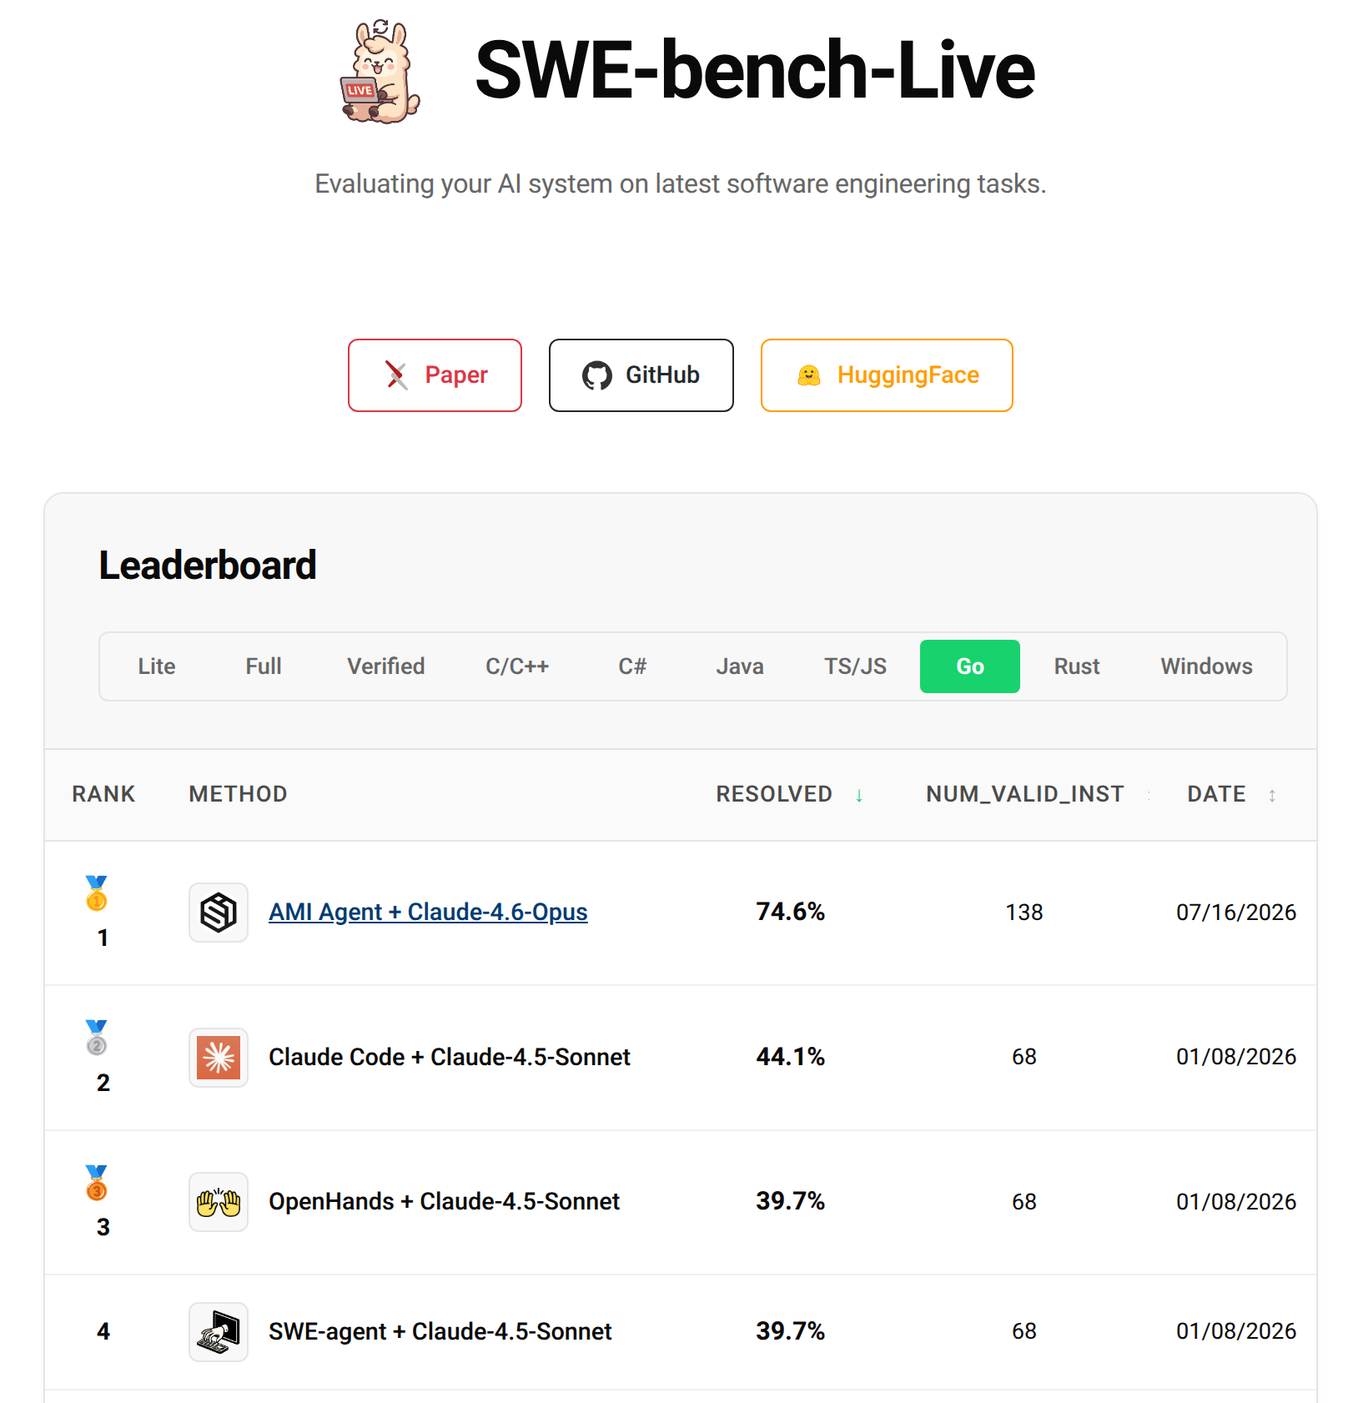
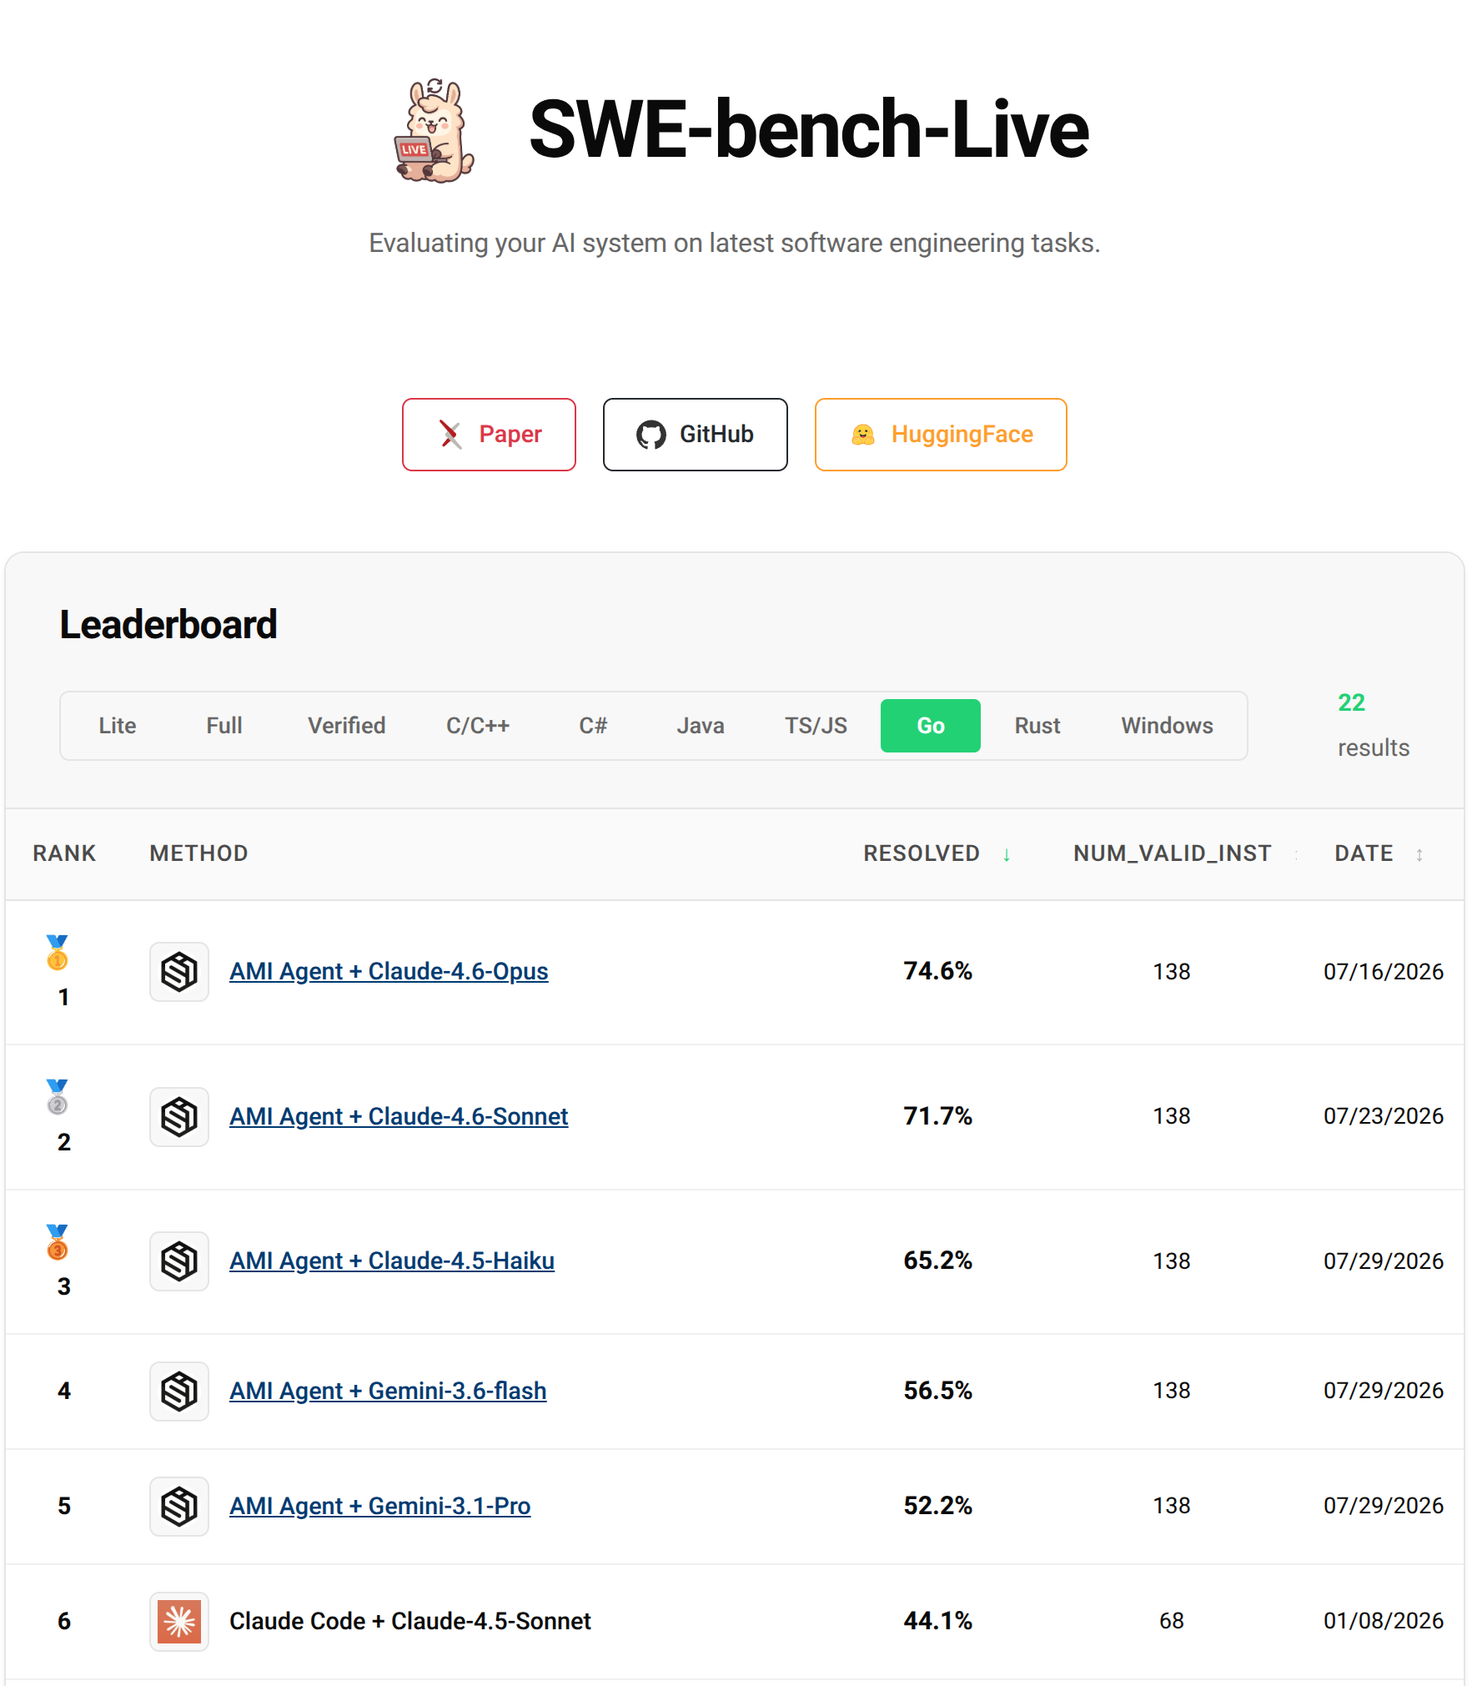
feat: update Go leaderboard for AMI top-5 sweep and add 3 blog posts
Update the SWE-bench Live Go section to reflect AMI holding all top 5
positions with 5 different models (Opus, Sonnet, Haiku, Gemini Flash,
Gemini Pro). Add three blog posts covering the sweep results, the
model-agnostic architecture insight, and the practical cost-quality
tradeoff across model tiers.

diff --git a/src/app/leaderboards/page.tsx b/src/app/leaderboards/page.tsx
@@ -278,7 +278,7 @@ export default function LeaderboardsPage() {
           {/* SWE Bench Live Go */}
           <div id="swebench-live-go" className="scroll-mt-20">
             <h3 className="text-xl font-semibold tracking-tight text-neutral-900 dark:text-white mb-4 pb-2 border-b border-neutral-200 dark:border-neutral-800">SWE Bench Live Go</h3>
-            <p className="mt-1 text-xs text-neutral-400 dark:text-neutral-500">July 2026</p>
+            <p className="mt-1 text-xs text-neutral-400 dark:text-neutral-500">August 2026</p>
 
             <div className="mt-4 space-y-4 text-neutral-700 dark:text-neutral-300">
               <p>
@@ -292,30 +292,31 @@ export default function LeaderboardsPage() {
               <div className="rounded-xl border border-neutral-200 dark:border-white/10 bg-neutral-50 dark:bg-neutral-900/60 p-6">
                 <div className="grid grid-cols-1 md:grid-cols-4 gap-6 mb-6">
                   <div className="text-center">
-                    <div className="text-2xl sm:text-4xl font-bold text-blue-600 dark:text-blue-400">#1</div>
+                    <div className="text-2xl sm:text-4xl font-bold text-blue-600 dark:text-blue-400">#1–#5</div>
                     <div className="text-sm text-neutral-600 dark:text-neutral-400 mt-1">Ranking</div>
                   </div>
                   <div className="text-center">
                     <div className="text-2xl sm:text-4xl font-bold text-blue-600 dark:text-blue-400">74.6%</div>
-                    <div className="text-sm text-neutral-600 dark:text-neutral-400 mt-1">Resolved</div>
+                    <div className="text-sm text-neutral-600 dark:text-neutral-400 mt-1">Resolved (Best)</div>
                   </div>
                   <div className="text-center">
                     <div className="text-2xl sm:text-4xl font-bold text-blue-600 dark:text-blue-400">103</div>
                     <div className="text-sm text-neutral-600 dark:text-neutral-400 mt-1">Problems Solved</div>
                   </div>
                   <div className="text-center">
-                    <div className="text-2xl sm:text-4xl font-bold text-blue-600 dark:text-blue-400">3.4&times;</div>
-                    <div className="text-sm text-neutral-600 dark:text-neutral-400 mt-1">More Solved vs 2nd</div>
+                    <div className="text-2xl sm:text-4xl font-bold text-blue-600 dark:text-blue-400">+30.5pp</div>
+                    <div className="text-sm text-neutral-600 dark:text-neutral-400 mt-1">vs Best Non-AMI</div>
                   </div>
                 </div>
 
                 <div className="border-t border-neutral-200 dark:border-neutral-700 pt-4 space-y-3">
                   <p className="text-sm text-neutral-700 dark:text-neutral-300">
-                    <span className="font-semibold">AMI Agent + Claude-4.6-Opus</span> solved <span className="font-semibold text-blue-600 dark:text-blue-400">103 out of 138</span> Go
-                    issues (74.6%), securing first place. The runner-up (Claude Code + Claude 4.5 Sonnet) solved 30 out of 68 (44.1%) — AMI
-                    solved <span className="font-semibold text-blue-600 dark:text-blue-400">3.4&times; more problems</span> in
-                    absolute terms, while also maintaining a +30.5 point lead in resolution rate across a test set that
-                    was more than twice as large.
+                    <span className="font-semibold">AMI Agent swept the entire Go top 5</span> across five different model backends
+                    — Claude-4.6-Opus (<span className="font-semibold text-blue-600 dark:text-blue-400">74.6%</span>),
+                    Claude-4.6-Sonnet (71.7%), Claude-4.5-Haiku (65.2%), Gemini-3.6-Flash (56.5%),
+                    and Gemini-3.1-Pro (52.2%). The best non-AMI entry (Claude Code + Claude-4.5-Sonnet, ranked 6th) solved
+                    30 out of 68 issues (44.1%) — even the <span className="font-semibold text-blue-600 dark:text-blue-400">lowest-ranked
+                    AMI variant beat every non-AMI agent by +8.1pp</span>, proving the framework — not the model — is the differentiator.
                   </p>
                 </div>
               </div>
@@ -323,7 +324,7 @@ export default function LeaderboardsPage() {
               <div className="rounded-xl border border-neutral-200 dark:border-white/10 overflow-hidden">
                 <Image
                   src="/leaderboards/swebench_live_go.png"
-                  alt="SWE Bench Live Go Leaderboard showing AMI Agent + Claude-4.6-Opus at #1 with 74.6%"
+                  alt="SWE Bench Live Go Leaderboard showing AMI Agent sweeping positions #1 through #5 with 74.6% at the top"
                   width={1200}
                   height={800}
                   className="w-full h-auto"
@@ -332,7 +333,7 @@ export default function LeaderboardsPage() {
               </div>
 
               <div className="text-xs text-neutral-500 dark:text-neutral-400 text-center">
-                Source: <a href="https://swe-bench-live.github.io/#leaderboard-go" target="_blank" rel="noopener noreferrer" className="text-blue-600 dark:text-blue-400 hover:underline">swe-bench-live.github.io</a>. July 2026.
+                Source: <a href="https://swe-bench-live.github.io/#leaderboard-go" target="_blank" rel="noopener noreferrer" className="text-blue-600 dark:text-blue-400 hover:underline">swe-bench-live.github.io</a>. August 2026.
               </div>
             </div>
           </div>

diff --git a/content/blog/posts/2026-08-05-go-multi-model-cost-quality.md b/content/blog/posts/2026-08-05-go-multi-model-cost-quality.md
@@ -1,0 +1,77 @@
+---
+title: "From Opus to Gemini Flash: Scaling AMI Across Model Tiers on SWE-bench Go"
+subtitle: "Same binary, same prompts, five models — what the cost-quality curve actually looks like"
+abstract: "We ran AMI v0.6.2 against SWE-bench Live Go with five different models spanning two providers. The only variable was the model endpoint. The results reveal a practical cost-quality tradeoff curve that every team running AI-assisted development should understand."
+date: "2026-08-05"
+author: "Carlos Camacho-Gonzalez"
+categories: ["Engineering"]
+heroImage: "/blog/images/go-multi-model-cost-quality.jpg"
+---
+
+## One binary, five models
+
+Every benchmark result on our leaderboard was produced by the same artifact: AMI v0.6.2, running inside the same OpenShell container, with the same system prompts and the same `MAX_TURNS=140` limit. The only variable across runs was the `AI_MODEL` environment variable. This matters because it isolates model capability from agent engineering — the scaffolding is identical, so the numbers reflect pure model performance under AMI's orchestration.
+
+Here are the SWE-bench Live Go resolution rates:
+
+| Model | Resolution Rate | Delta vs. Opus | Provider |
+|---|---|---|---|
+| Claude-4.6-Opus | 74.6% | baseline | Anthropic |
+| Claude-4.6-Sonnet | 71.7% | -2.9pp | Anthropic |
+| Claude-4.5-Haiku | 65.2% | -9.4pp | Anthropic |
+| Gemini-3.6-Flash | 56.5% | -18.1pp | Google |
+| Gemini-3.1-Pro | 52.2% | -22.4pp | Google |
+
+## The diminishing returns curve
+
+The step-down cost between adjacent tiers is not linear. Moving from Opus to Sonnet costs 2.9 percentage points. Sonnet to Haiku costs 6.5pp. Haiku to Flash costs 8.7pp. The first step down is nearly free in terms of capability — you retain 96% of Opus's resolution rate with Sonnet at a fraction of the per-token cost.
+
+This has a direct practical consequence: **most production workloads should default to Sonnet**, not Opus. The 2.9pp gap is within noise for many real-world distributions, and the cost savings compound fast when you are processing hundreds or thousands of issues.
+
+## Haiku outperforms every non-AMI agent
+
+The 65.2% result from Claude-4.5-Haiku deserves its own callout. This is the cheapest model in the Anthropic lineup, and it still outperforms every non-AMI agent on the SWE-bench Live Go leaderboard — including agents running far more expensive models. The implication is that agent architecture matters more than raw model size once you cross a capability threshold. AMI's structured planning, OpenShell execution environment, and critic-gated memory give smaller models the scaffolding they need to punch above their weight.
+
+For high-volume, cost-sensitive workloads — think CI pipelines that auto-triage and fix flaky tests, or batch processing of low-severity bug reports — Haiku on AMI gives you top-of-leaderboard performance at the lowest Anthropic price tier.
+
+## Cross-provider compatibility
+
+The Gemini results prove something we consider essential for production readiness: **AMI's model abstraction layer works across providers**. Switching from Anthropic to Google requires changing two environment variables, not rewriting your pipeline.
+
+This matters for teams that need provider diversity for compliance, want to consolidate billing under Google Cloud, or simply want a fallback when one provider has capacity constraints. Gemini-3.6-Flash at 56.5% is competitive with many dedicated agents, and it runs on entirely separate infrastructure from the Anthropic models.
+
+## How to switch models
+
+Changing the model is a single configuration change. In your run configuration:
+
+```bash
+# Opus — maximum accuracy
+AI_MODEL="claude-4.6-opus" AI_PROVIDER="anthropic" ./run-instance.sh
+
+# Sonnet — best cost/quality tradeoff
+AI_MODEL="claude-4.6-sonnet" AI_PROVIDER="anthropic" ./run-instance.sh
+
+# Haiku — high volume, low cost
+AI_MODEL="claude-4.5-haiku" AI_PROVIDER="anthropic" ./run-instance.sh
+
+# Gemini Flash — Google Cloud billing, provider diversity
+AI_MODEL="gemini-3.6-flash" AI_PROVIDER="google" ./run-instance.sh
+```
+
+Everything else — the container image, the prompt templates, the turn limits, the patch extraction — stays the same. No code changes, no redeployment.
+
+## Choosing the right tier
+
+The decision framework is straightforward:
+
+| Priority | Recommended Model | Rationale |
+|---|---|---|
+| Maximum accuracy | Claude-4.6-Opus | 74.6% — highest resolution rate, justified for critical codebases |
+| Cost efficiency | Claude-4.6-Sonnet | 71.7% — retains 96% of Opus at significantly lower cost |
+| High volume / budget | Claude-4.5-Haiku | 65.2% — still beats every non-AMI agent, lowest Anthropic tier |
+| Provider diversity | Gemini-3.6-Flash | 56.5% — separate provider, Google Cloud billing |
+| Google-native stack | Gemini-3.1-Pro | 52.2% — native Google integration, Vertex AI compatible |
+
+For most teams, we recommend starting with Sonnet and only upgrading to Opus for repositories where the marginal 2.9pp matters — typically large, complex codebases with deep dependency chains. Run Haiku for anything high-volume where you need good-enough results at scale. Use the Gemini variants when your infrastructure or compliance requirements dictate provider choice.
+
+The underlying point is that AMI's value is not tied to any single model. The agent architecture is the multiplier. Pick the model that fits your budget and constraints, and let AMI handle the rest.

diff --git a/content/blog/posts/2026-08-04-go-model-agnostic-framework.md b/content/blog/posts/2026-08-04-go-model-agnostic-framework.md
@@ -1,0 +1,66 @@
+---
+title: "Five Models, One Framework: What the Go Sweep Proves About Architecture"
+subtitle: "AMI holds the top 5 positions on SWE-bench Live Go with 5 different models from 2 providers"
+abstract: "AMI swept the top 5 on SWE-bench Live Go using five different models spanning two providers and the full capability spectrum. The result demonstrates that the PRE loop is model-agnostic by design: the framework is the differentiator, not the underlying LLM."
+date: "2026-08-04"
+author: "Carlos Camacho-Gonzalez"
+categories: ["Research"]
+heroImage: "/blog/images/go-model-agnostic-framework.jpg"
+---
+
+## The experiment no one else can run
+
+AMI holds positions 1 through 5 on the SWE-bench Live Go leaderboard. Each position uses a different model. Two are from Anthropic (Claude), two are from Google (Gemini), and one is the cost-optimized Claude-4.5-Haiku. The models span the full capability spectrum from frontier to mid-tier.
+
+| AMI Configuration | Rate | vs Best Non-AMI |
+|---|---|---|
+| Claude-4.6-Opus | 74.6% | +30.5pp |
+| Claude-4.6-Sonnet | 71.7% | +27.6pp |
+| Claude-4.5-Haiku | 65.2% | +21.1pp |
+| Gemini-3.6-Flash | 56.5% | +12.4pp |
+| Gemini-3.1-Pro | 52.2% | +8.1pp |
+
+Every single AMI configuration outperforms every non-AMI agent on the leaderboard. The weakest AMI variant beats the strongest non-AMI competitor by 8.1 percentage points.
+
+## If the model mattered most, this would not work
+
+The standard assumption in AI engineering is that benchmark performance is primarily a function of the underlying model. A better model produces better results; swap to a weaker model and performance collapses.
+
+AMI's Go sweep contradicts this assumption directly. If AMI's success were model-dependent, switching from Claude-4.6-Opus to Gemini-3.1-Pro — a model from a different provider, a different architecture family, trained on different data — would crash performance. Instead, Gemini-3.1-Pro still places top 5 and beats every non-AMI agent.
+
+The spread within AMI variants is 22.4 percentage points (74.6% down to 52.2%). The gap between AMI's worst configuration and the best non-AMI agent is 8.1 percentage points. **Framework choice has a larger effect on performance than model choice.**
+
+## Why the PRE loop is model-agnostic
+
+The PRE loop's three core mechanisms operate on observations, not on model internals.
+
+### Critic-gated memory
+
+The Critic evaluates candidate results by checking them against concrete observations: test outputs, compiler errors, type-check results. It does not inspect the model's hidden states or attention patterns. A passing test is a passing test regardless of which model generated the code that passes it.
+
+### Information-theoretic stopping
+
+The stopping criterion measures whether additional iterations are likely to yield new information, based on the trajectory of observations so far. This calculation depends on what the agent has observed, not on which model is doing the observing. The entropy of the observation sequence is model-independent.
+
+### Structured planning
+
+The planning phase decomposes tasks into subgoals based on the current belief state and available observations. Different models may decompose differently, but the planning structure itself constrains the search space in ways that benefit all models equally.
+
+## The cost-efficiency argument
+
+Claude-4.5-Haiku is a cost-optimized model designed for high throughput at low cost. At 65.2% on SWE-bench Live Go, it outperforms every non-AMI agent on the leaderboard. This includes agents running frontier models.
+
+The implication is direct: **AMI extracts more from a cheap model than other frameworks extract from an expensive one.** For production deployments where cost matters, this means the framework amortizes the performance gap between model tiers.
+
+## Contrast with other agents
+
+Claude Code, SWE-agent, and OpenHands all appear on the SWE-bench Live Go leaderboard with various model configurations. None of them holds more than one top-10 position by resolution rate. Switching their underlying model does not reliably improve their ranking because the framework itself is the bottleneck.
+
+This is the key distinction. When the framework is the limiting factor, upgrading the model yields diminishing returns. When the framework is not the limiting factor — as with AMI — upgrading the model yields consistent, predictable gains across the full capability spectrum.
+
+## Two numbers that summarize the finding
+
+- **22.4pp**: the spread across AMI's five model configurations (within-framework variance)
+- **8.1pp**: the gap between AMI's weakest and the best non-AMI (between-framework gap)
+
+The between-framework gap exceeds what model selection alone can explain. The architecture is doing the work.

diff --git a/content/blog/posts/2026-08-03-go-sweep-top-five.md b/content/blog/posts/2026-08-03-go-sweep-top-five.md
@@ -1,0 +1,62 @@
+---
+title: "AMI Sweeps All Five SWE-bench Live Go Positions"
+subtitle: "One framework, three providers, five models -- every top-five slot on the Go leaderboard belongs to AMI"
+abstract: "AMI holds positions 1 through 5 on the SWE-bench Live Go leaderboard as of August 2026, spanning models from Anthropic and Google. Even the lowest-ranked AMI variant outperforms the best non-AMI submission by 8.1 percentage points. This is the first time any agent framework has swept the top five on a SWE-bench leaderboard."
+date: "2026-08-03"
+author: "Carlos Camacho-Gonzalez"
+categories: ["Benchmarks"]
+heroImage: "/blog/images/go-sweep-top-five.jpg"
+---
+
+## The leaderboard as of August 2026
+
+Out of 22 total Go submissions on the SWE-bench Live leaderboard, the top five are all AMI:
+
+| Rank | Configuration | Resolved | Total | Rate |
+|------|---------------|----------|-------|------|
+| 1 | AMI Agent + Claude-4.6-Opus | 103 | 138 | 74.6% |
+| 2 | AMI Agent + Claude-4.6-Sonnet | 99 | 138 | 71.7% |
+| 3 | AMI Agent + Claude-4.5-Haiku | 90 | 138 | 65.2% |
+| 4 | AMI Agent + Gemini-3.6-Flash | 78 | 138 | 56.5% |
+| 5 | AMI Agent + Gemini-3.1-Pro | 72 | 138 | 52.2% |
+| 6 | Claude Code + Claude-4.5-Sonnet | 30 | 68 | 44.1% |
+
+The gap between our weakest variant (Gemini 3.1 Pro at 52.2%) and the best non-AMI submission (Claude Code at 44.1%) is **+8.1 percentage points**. At the top, AMI + Claude-4.6-Opus leads the next non-AMI entry by **+30.5 points** and solves **3.4x** more problems in absolute terms (103 vs 30).
+
+## Why a sweep matters
+
+No other agent framework holds even two consecutive positions on any SWE-bench leaderboard. Holding all five demonstrates something specific: **the framework contributes more to performance than the underlying model does.**
+
+The spread between our best and worst variants is 22.4 points (74.6% minus 52.2%). That is significant. But the spread between our worst variant and the best non-AMI entry is still positive. The floor set by AMI's architecture -- the PRE loop, critic-gated memory, and OpenShell execution environment -- sits above the ceiling of other approaches regardless of which model they use.
+
+## Three providers, one framework
+
+The five configurations span models from two providers:
+
+- **Anthropic**: Claude-4.6-Opus, Claude-4.6-Sonnet, Claude-4.5-Haiku
+- **Google**: Gemini-3.6-Flash, Gemini-3.1-Pro
+
+All five runs used the identical setup: **AMI v0.6.2** with the **OpenShell** container, evaluated against the full **138-instance** test set. No per-model tuning, no per-language configuration, no prompt adjustments between runs.
+
+This is a direct consequence of the model-agnostic design we described in the [AMI v0.6 architecture post](/blog/posts/2026-05-25-ami-v06-release). The framework speaks a normalized completion interface. Swapping the underlying model is a single configuration change.
+
+### Model tiers are visible but not decisive
+
+The ranking within AMI's five entries follows a predictable pattern: larger, more capable models resolve more issues. Opus leads Sonnet by 2.9 points, Sonnet leads Haiku by 6.5 points, and the Anthropic models collectively outperform the Google models. But even the smallest model in the set -- Gemini 3.1 Pro -- still outperforms every non-AMI submission.
+
+## What the numbers mean for Go specifically
+
+Go remains our strongest language benchmark by a wide margin. The compiler's strict type checking and explicit error handling produce the kind of precise, actionable feedback that the PRE loop converts into belief updates and targeted retries. We covered the structural reasons in our [Go engineering deep dive](/blog/posts/2026-07-12-swebench-go-engineering).
+
+The sweep adds a new data point to that analysis: the advantage is not model-contingent. Five different models, spanning two provider families and a wide capability range, all benefit from the same Go-specific feedback dynamics when run through the PRE loop.
+
+## Raw comparison
+
+| Metric | AMI best | AMI worst | Best non-AMI |
+|--------|----------|-----------|--------------|
+| Resolution rate | 74.6% | 52.2% | 44.1% |
+| Problems solved | 103 | 72 | 30 |
+| Test instances | 138 | 138 | 68 |
+| Margin vs non-AMI | +30.5pp | +8.1pp | -- |
+
+The non-AMI runner-up evaluated on 68 instances -- less than half our test set. Even on a smaller, potentially easier subset, it did not reach our lowest-performing configuration.
